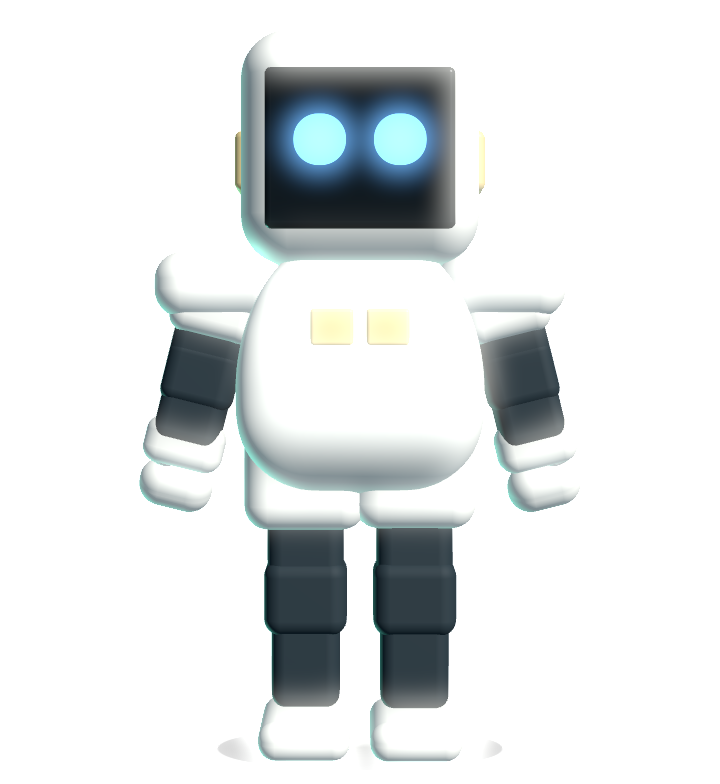
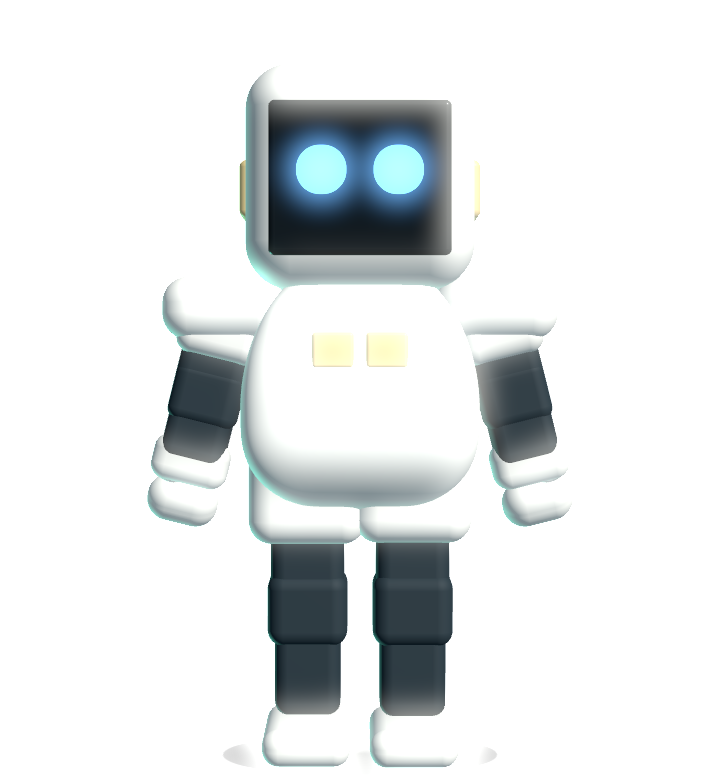
Wear the headphones properly, and stop the idle clock while music plays
The band was framed out of the picture because the camera fitted the head and
the band arches above it. The framing fits whatever the tallest point is, worn
or not, so the pet does not resize when music starts either.

The cups are AirPods Max slabs over the ears rather than cylinders beside them,
and the strap is an extruded arch rather than a torus: a torus has no arc, so
the half below the ears hung down past the chin.

The idle clock reset lived inside the music branch, which is skipped as soon as
there has been any reaction at all. After one poke it started running again and
the pet aged into sleepy with a track still playing. It resets wherever the
face is decided, and while music plays the clock does not run at all.

diff --git a/app/Sources/Squawk/Companion3D/CompanionScene.swift b/app/Sources/Squawk/Companion3D/CompanionScene.swift
@@ -76,14 +76,33 @@ final class CompanionScene {
 
         /// The top of the head, walked up the same chain the head is built from.
         static var crownY: CGFloat {
-            CGFloat(body.y) * 0.5 + neck + head * 0.98 / 2
+            let shoulders: CGFloat = CGFloat(body.y) * 0.5
+            return shoulders + neck + head * 0.49
+        }
+
+        /// Headphone measurements, kept here so the framing can see them. The
+        /// band arches over the crown, so the tallest point on the pet is not
+        /// its head, and framing to the head alone chopped the band off.
+        static let bandRadiusShare: CGFloat = 0.62
+        /// Level with the ears, so the strap arches from one cup to the other
+        /// and the head hides the rest of the ring. Lifted, it orbited the head
+        /// like a halo instead of sitting on it.
+        static let bandLiftShare: CGFloat = 0.0
+        static let bandThicknessShare: CGFloat = 0.042
+
+        /// The highest point on it, worn or not, so the pet does not change
+        /// size the moment music starts.
+        static var topY: CGFloat {
+            let shoulders: CGFloat = CGFloat(body.y) * 0.5
+            let band: CGFloat = bandLiftShare + bandRadiusShare + bandThicknessShare
+            return max(crownY, shoulders + neck + head * band)
         }
 
         /// What the camera has to fit, with room around it. Derived, because a
         /// framing typed in beside the legs goes wrong the moment they change:
         /// the feet were cut off the first time they grew past it.
-        static var framedHeight: CGFloat { (crownY - soleY) * 1.12 }
-        static var framedCentre: CGFloat { (crownY + soleY) / 2 }
+        static var framedHeight: CGFloat { (topY - soleY) * 1.10 }
+        static var framedCentre: CGFloat { (topY + soleY) / 2 }
 
         /// Wide enough to cover both feet with a little spread.
         static var shadowSize: CGSize {
@@ -517,36 +536,64 @@ final class CompanionScene {
         headphones.isHidden = true
         headPivot.addChildNode(headphones)
 
-        let band = SCNTorus(ringRadius: Size.head * 0.60, pipeRadius: Size.head * 0.055)
-        band.ringSegmentCount = 48
-        band.pipeSegmentCount = 16
+        let bandRadius = Size.head * Size.bandRadiusShare
+        let bandThickness = Size.head * Size.bandThicknessShare
+        let cupHeight = Size.head * 0.44
+        let cupDepth = Size.head * 0.46
+        let cupThickness = Size.head * 0.21
+
+        // The strap: an arch from one cup to the other, not a ring. A torus has
+        // no arc, so the whole circle was drawn and the half of it below the
+        // ears hung down past the chin like a halo on its side.
+        let outer = bandRadius
+        let inner = bandRadius - bandThickness * 2.4
+        let path = NSBezierPath()
+        path.appendArc(withCenter: .zero, radius: outer, startAngle: 6, endAngle: 174)
+        path.appendArc(withCenter: .zero, radius: inner, startAngle: 174, endAngle: 6,
+                       clockwise: true)
+        path.close()
+        path.flatness = 0.01
+        let band = SCNShape(path: path, extrusionDepth: Size.head * 0.15)
+        band.chamferRadius = bandThickness * 0.5
         band.materials = [accented()]
         let bandNode = SCNNode(geometry: band)
-        // Over the crown, not behind it. Sat back at the head's centre depth
-        // the arch disappeared behind the head from the front, which read as
-        // two discs stuck to the sides of its face.
-        bandNode.eulerAngles = SCNVector3(CGFloat.pi / 2, 0, 0)
-        bandNode.position = SCNVector3(0, Size.head * 0.12, Size.head * 0.06)
+        bandNode.position = SCNVector3(0, Size.head * Size.bandLiftShare, -Size.head * 0.07)
         headphones.addChildNode(bandNode)
 
         for side in [-1, 1] as [CGFloat] {
-            let cup = SCNCylinder(radius: Size.head * 0.22, height: Size.head * 0.12)
-            cup.radialSegmentCount = 36
-            cup.materials = [shell(Palette.line, shine: 0.4)]
-            let node = SCNNode(geometry: cup)
-            node.eulerAngles = SCNVector3(0, 0, CGFloat.pi / 2)
-            node.position = SCNVector3(side * Size.head * 0.56, -Size.head * 0.02,
-                                       Size.head * 0.06)
-            headphones.addChildNode(node)
+            // The cup: a rounded slab, taller than it is deep and much wider
+            // than it is thick, which is the whole shape of the thing. A
+            // cylinder read as a tin can bolted to its ear.
+            let cup = SCNBox(width: cupThickness, height: cupHeight, length: cupDepth,
+                             chamferRadius: cupDepth * 0.42)
+            cup.chamferSegmentCount = 12
+            cup.materials = [accented()]
+            let cupNode = SCNNode(geometry: cup)
+            // Over the ear and overlapping the head, the way a cup that covers
+            // an ear has to. Parked outside it, they read as tabs stuck on.
+            cupNode.position = SCNVector3(side * Size.head * 0.47, -Size.head * 0.03,
+                                          Size.head * 0.0)
+            headphones.addChildNode(cupNode)
 
-            let pad = SCNCylinder(radius: Size.head * 0.17, height: Size.head * 0.14)
-            pad.radialSegmentCount = 36
-            pad.materials = [accented()]
+            // The cushion that meets the head, set inside the cup.
+            let pad = SCNBox(width: cupThickness * 0.8, height: cupHeight * 0.82,
+                             length: cupDepth * 0.8, chamferRadius: cupDepth * 0.38)
+            pad.chamferSegmentCount = 10
+            pad.materials = [shell(Palette.line, shine: 0.22)]
             let padNode = SCNNode(geometry: pad)
-            padNode.eulerAngles = SCNVector3(0, 0, CGFloat.pi / 2)
-            padNode.position = SCNVector3(side * Size.head * 0.52, -Size.head * 0.02,
-                                          Size.head * 0.06)
+            padNode.position = SCNVector3(side * Size.head * 0.41, -Size.head * 0.03,
+                                          Size.head * 0.0)
             headphones.addChildNode(padNode)
+
+            // The arm joining the cup to the strap.
+            let stem = SCNBox(width: bandThickness * 1.6, height: Size.head * 0.16,
+                              length: bandThickness * 2.6, chamferRadius: bandThickness)
+            stem.chamferSegmentCount = 8
+            stem.materials = [accented()]
+            let stemNode = SCNNode(geometry: stem)
+            stemNode.position = SCNVector3(side * Size.head * 0.52, Size.head * 0.26,
+                                           Size.head * 0.0)
+            headphones.addChildNode(stemNode)
         }
     }
 

diff --git a/app/Sources/Squawk/AppDelegate.swift b/app/Sources/Squawk/AppDelegate.swift
@@ -999,6 +999,11 @@ final class AppDelegate: NSObject, NSApplicationDelegate {
     static let fortuneLifetime: TimeInterval = 7
 
     private func updateFace() {
+        // Listening is not being ignored. This used to live inside the music
+        // branch, which is skipped as soon as there has been any reaction at
+        // all, so after one poke the clock started running again and the pet
+        // aged into sleepy with a track still playing.
+        if companion.isHearingMusic { idleSince = Date() }
         let awaiting = roster.entries.contains { $0.request.awaitsDecision }
         // Risk is judged on what you are actually being shown, not on the worst
         // thing in the queue, so the face matches the command under your eyes.
@@ -1052,10 +1057,6 @@ final class AppDelegate: NSObject, NSApplicationDelegate {
         // on its own. Anything waiting still outranks it.
         if roster.isEmpty, companion.isHearingMusic, lastFaceEvent == nil,
            Settings.petStyle == .full {
-            // Listening is not being ignored. The idle clock used to keep
-            // running through a whole album, so the moment the music stopped it
-            // reported an hour of neglect and the eyes fell shut.
-            idleSince = Date()
             face.expression = .grooving
             companion.grooves = true
             companion.pose = BodyPose.pose(for: .grooving)
@@ -1098,7 +1099,11 @@ final class AppDelegate: NSObject, NSApplicationDelegate {
         detail.show(selected, waiting: roster.count)
         applyCardWidth()
         keepBubbleOnScreen()
-        if roster.isEmpty { idleSince = min(idleSince, Date()) } else { idleSince = Date() }
+        if !roster.isEmpty || companion.isHearingMusic {
+            idleSince = Date()
+        } else {
+            idleSince = min(idleSince, Date())
+        }
         updateFace()
         panel?.invalidateShadow()
         let attention = !roster.isEmpty

diff --git a/app/Sources/Squawk/main.swift b/app/Sources/Squawk/main.swift
@@ -414,6 +414,9 @@ if let index = CommandLine.arguments.firstIndex(of: "--preview-hero"),
     let persona = Cast.named(CommandLine.arguments.count > index + 2
                              ? CommandLine.arguments[index + 2] : nil)
     let built = CompanionScene(persona: persona)
+    // Worn, so the hero shows the tallest the pet ever is and any clipping at
+    // the top of the frame shows up here rather than on someone's desktop.
+    built.headphones.isHidden = !CommandLine.arguments.contains("--worn")
     built.apply(BodyPose.pose(for: .calm).pose3D())
     let eye = FaceTint(persona.eye.red, persona.eye.green, persona.eye.blue)
     built.paintFace(FaceArtist(frame: FaceFrame.target(for: .calm, resting: eye)))
